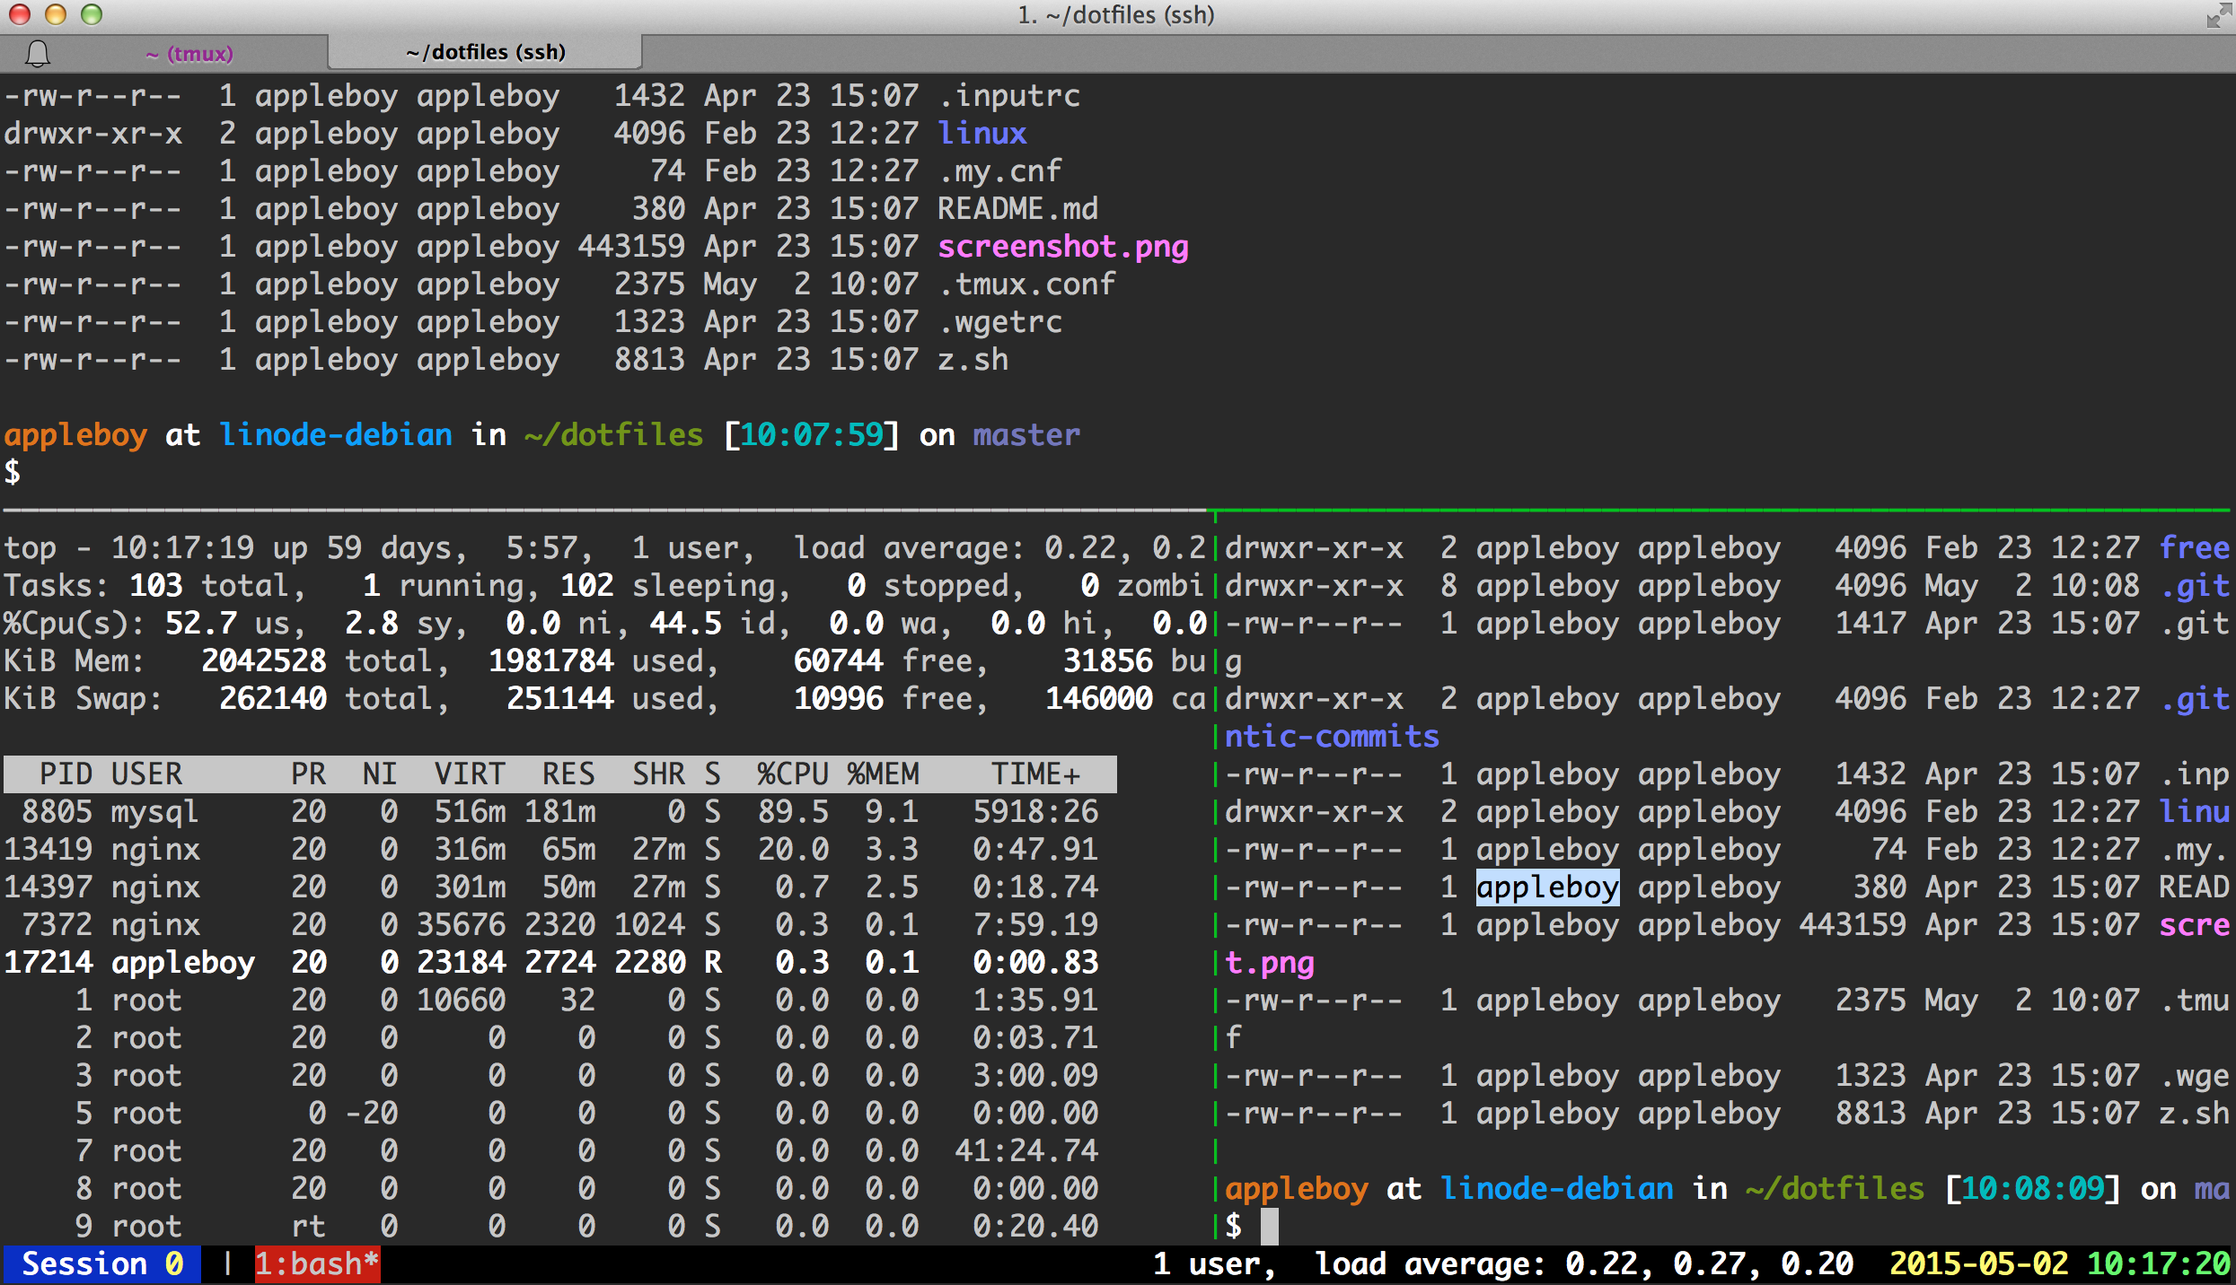
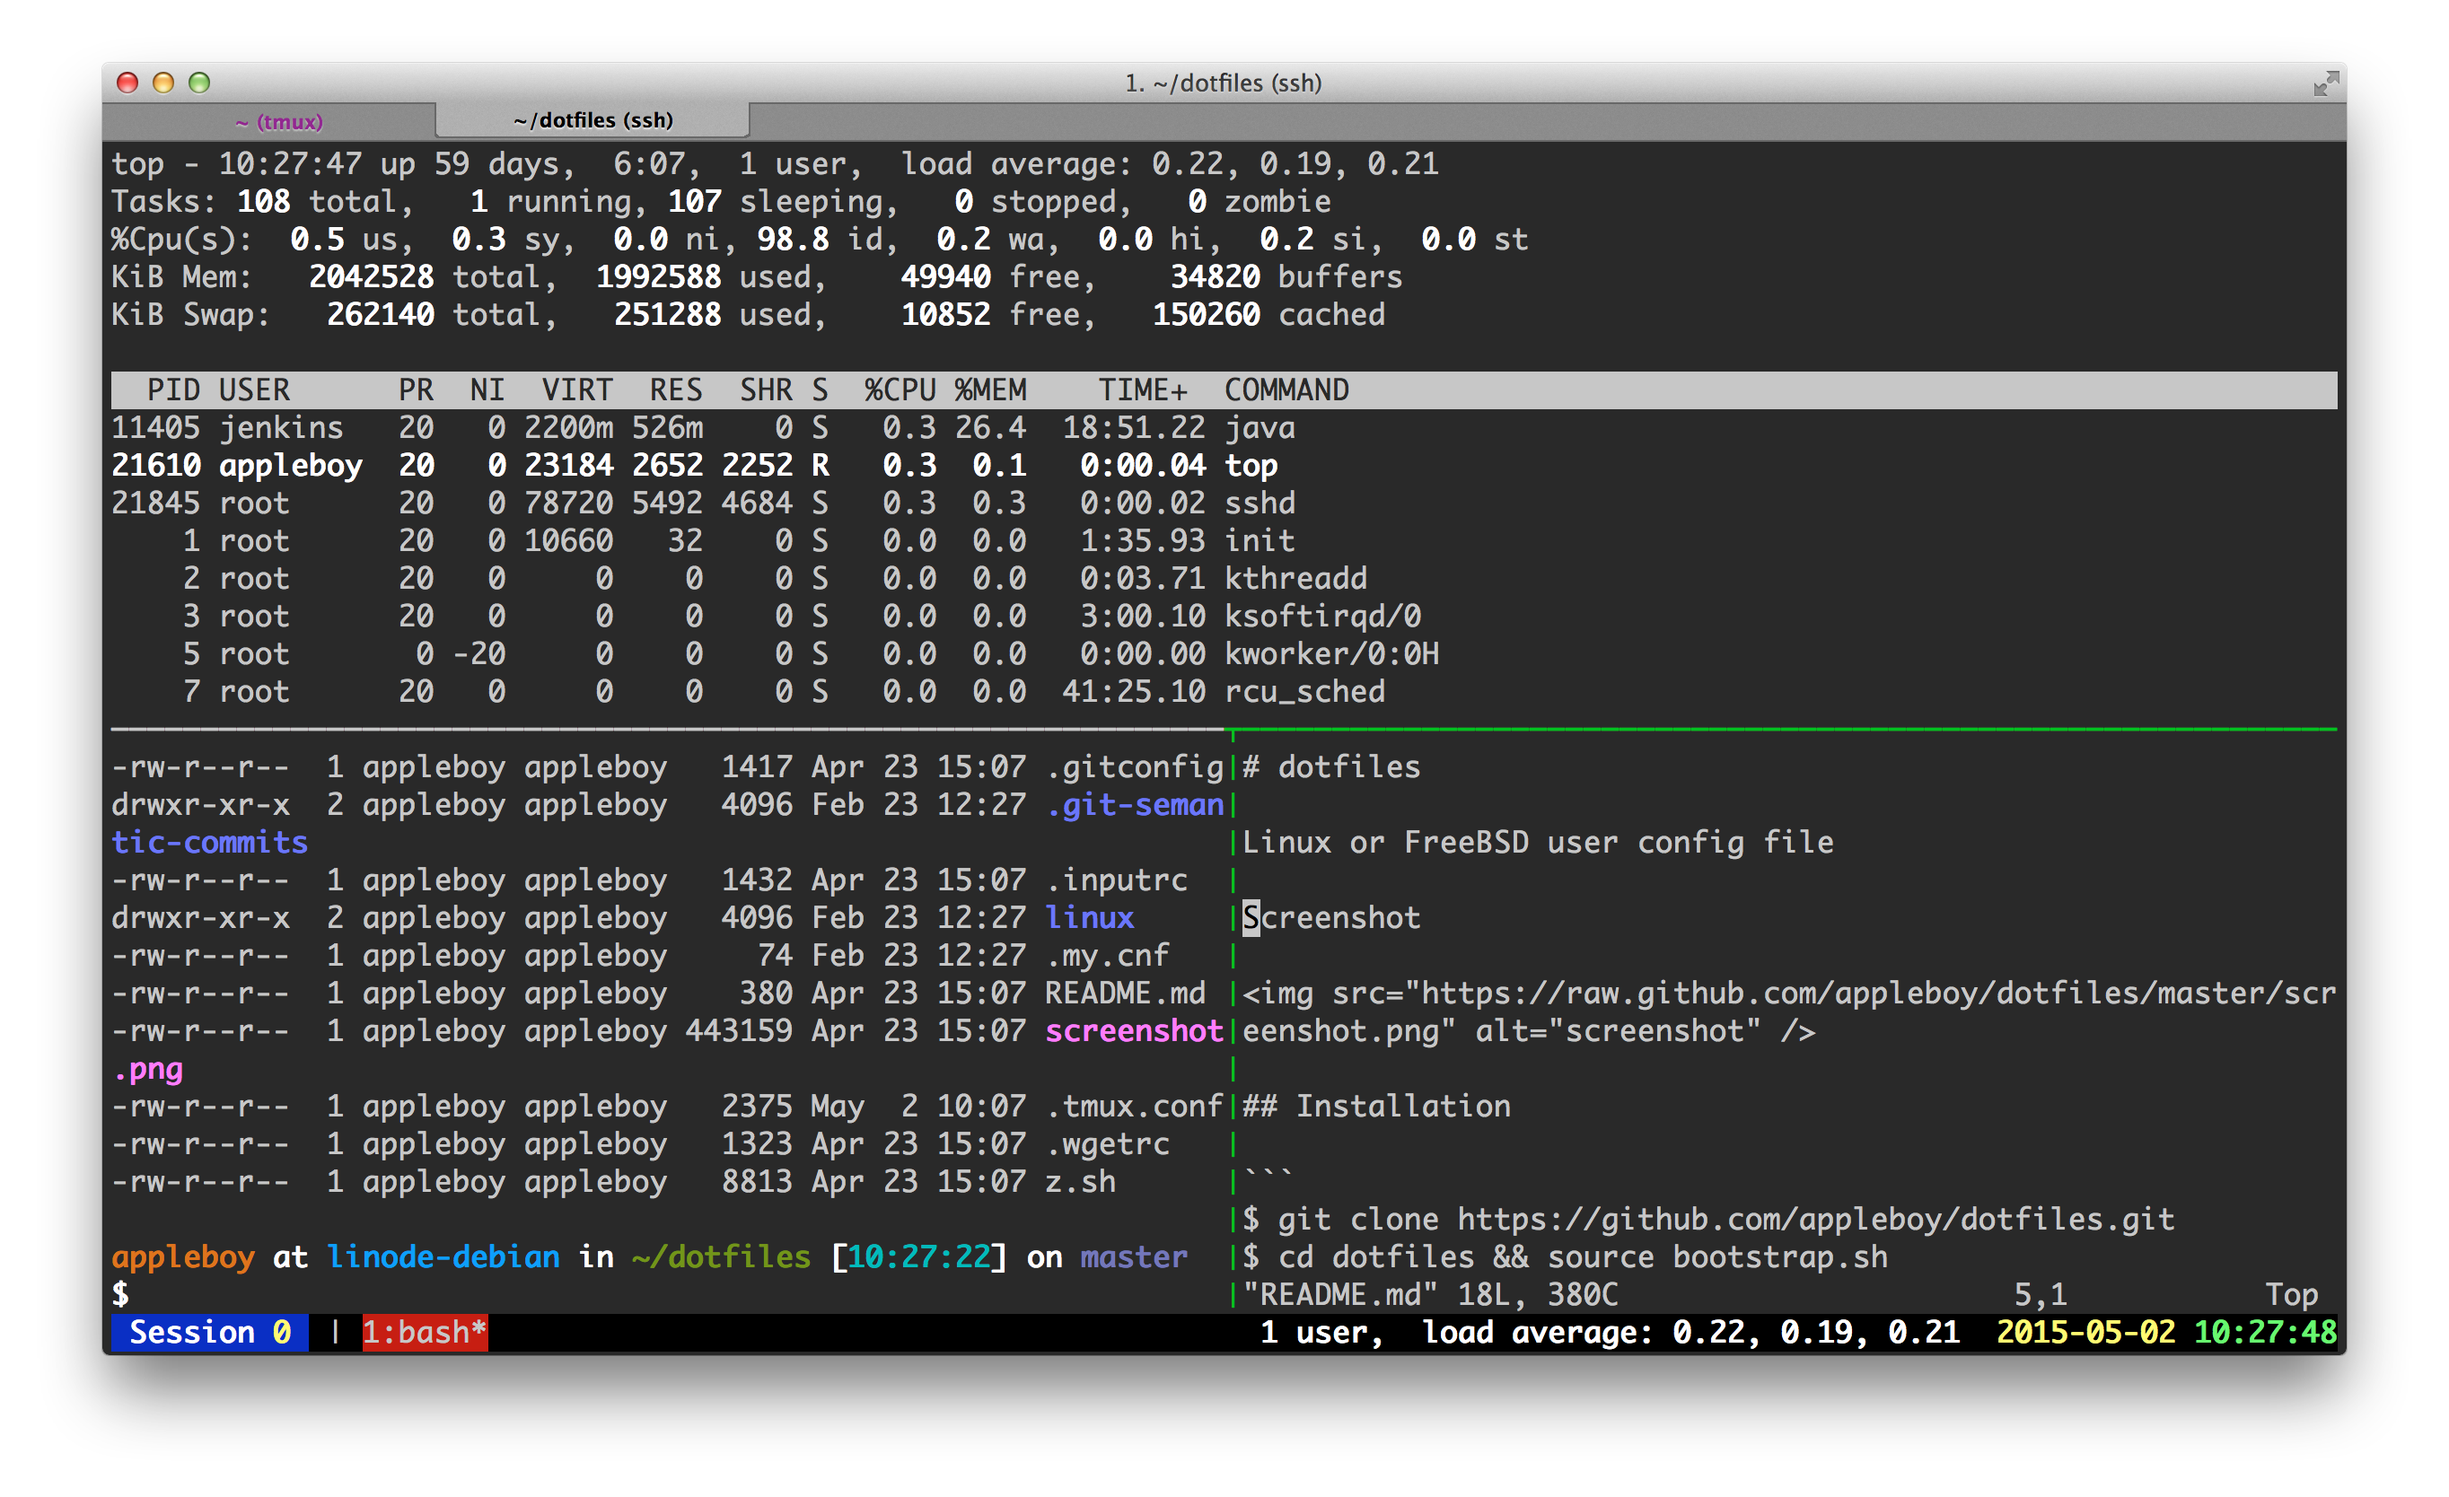
update screenshot png

diff --git a/README.md b/README.md
@@ -4,7 +4,7 @@ Linux or FreeBSD user config file
 
 Screenshot for bash
 
-![bash screenshot](screenshot/screenshot.png)
+![bash screenshot](screenshot/bash.png)
 
 Screenshot for tmux
 
